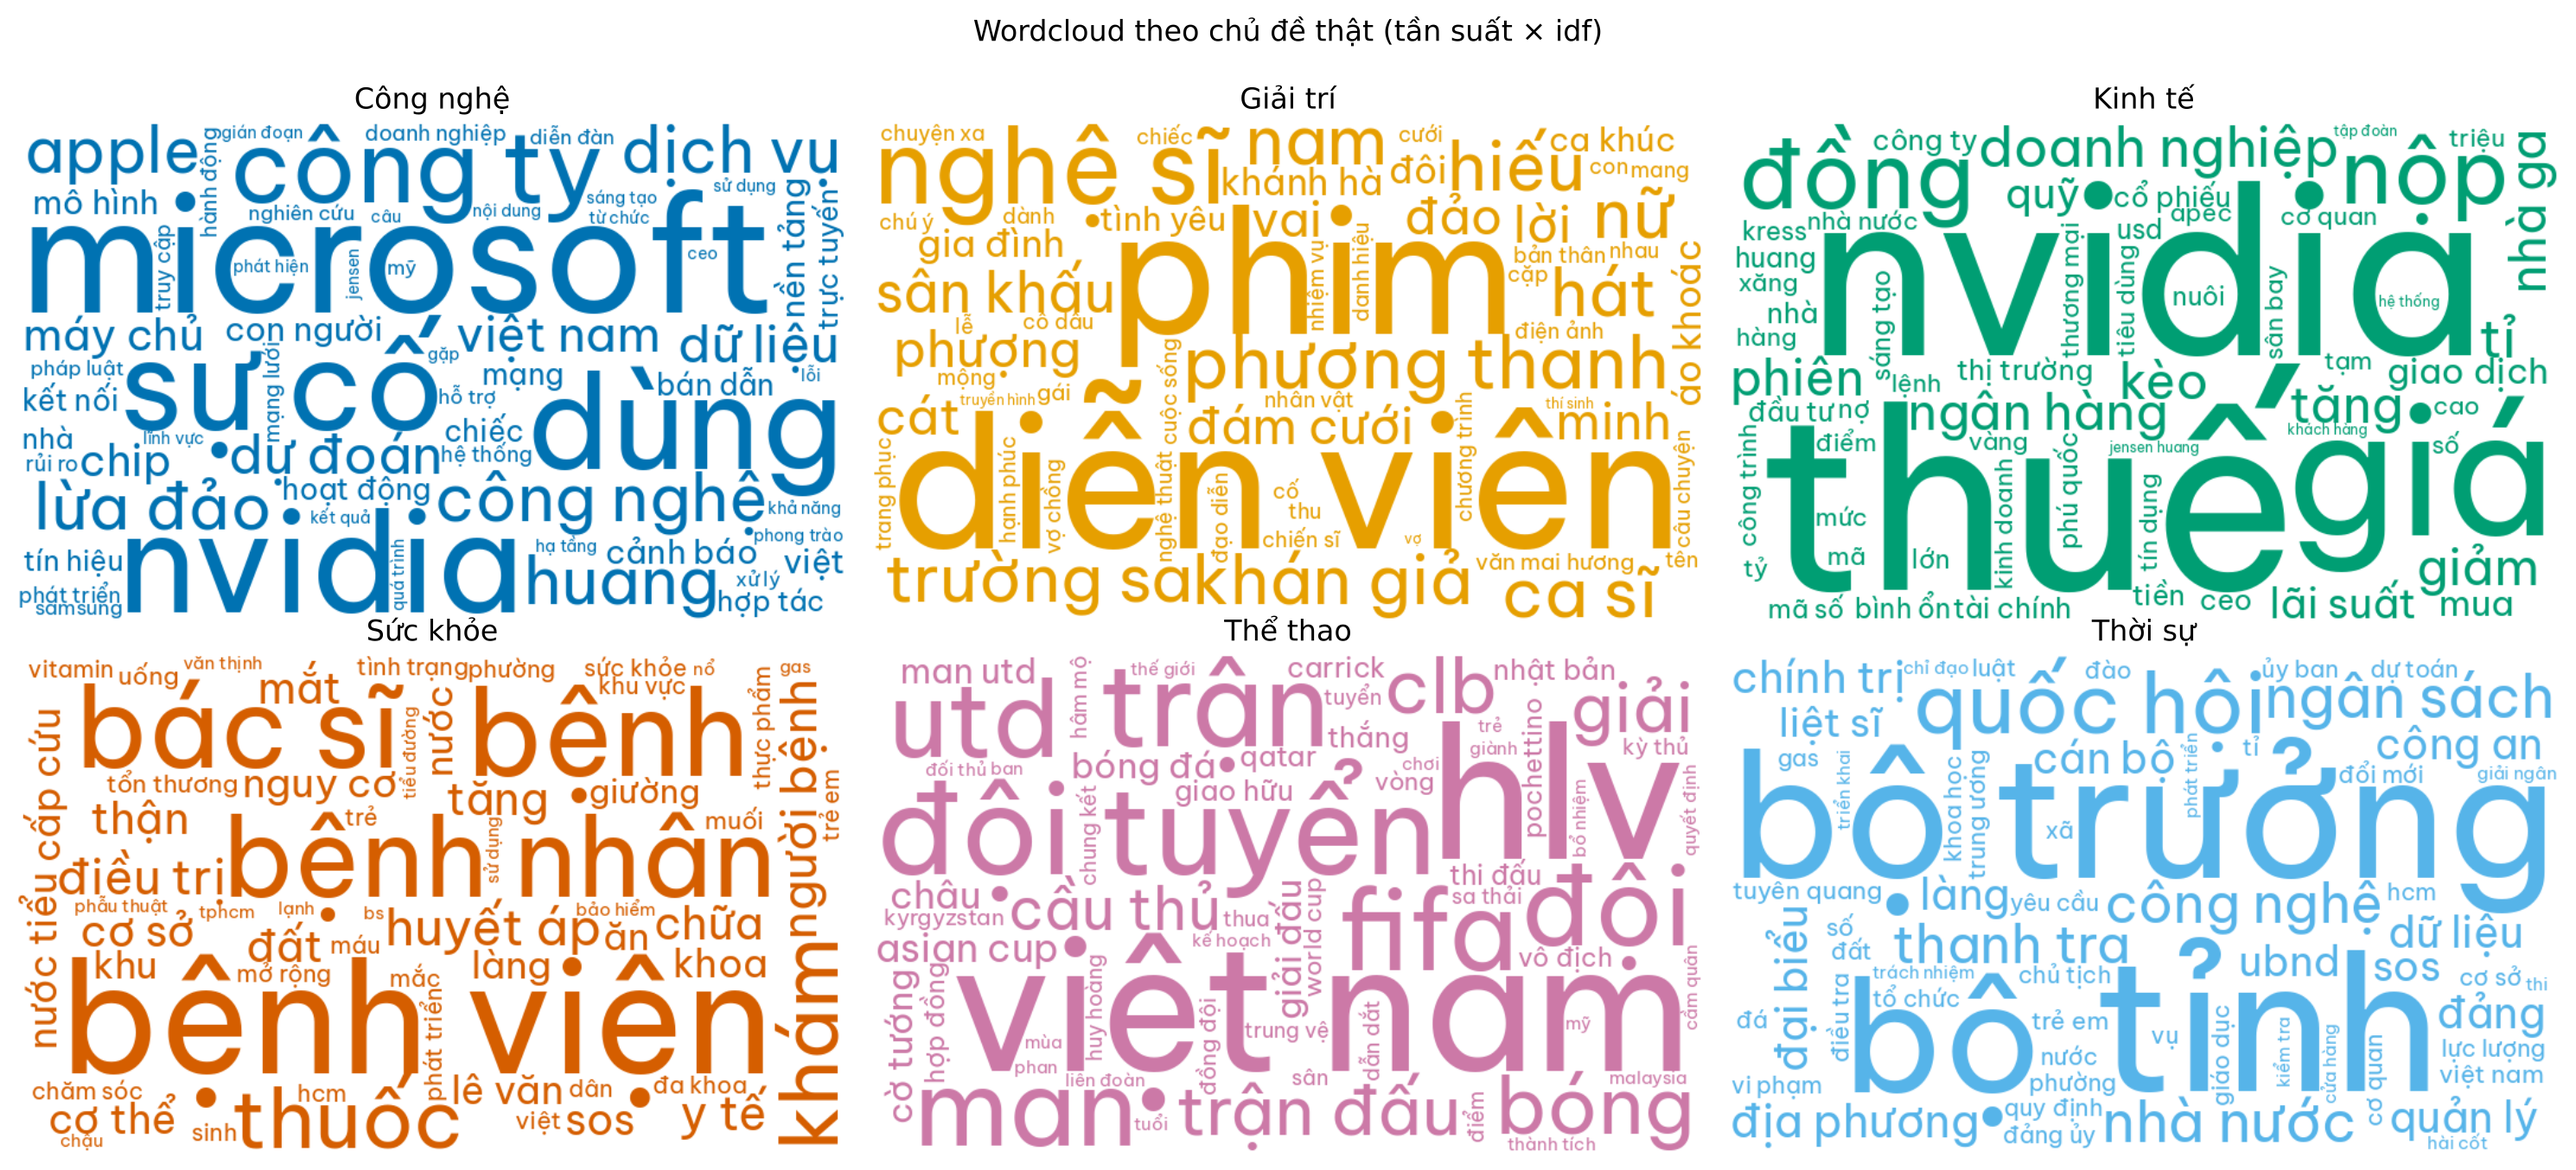
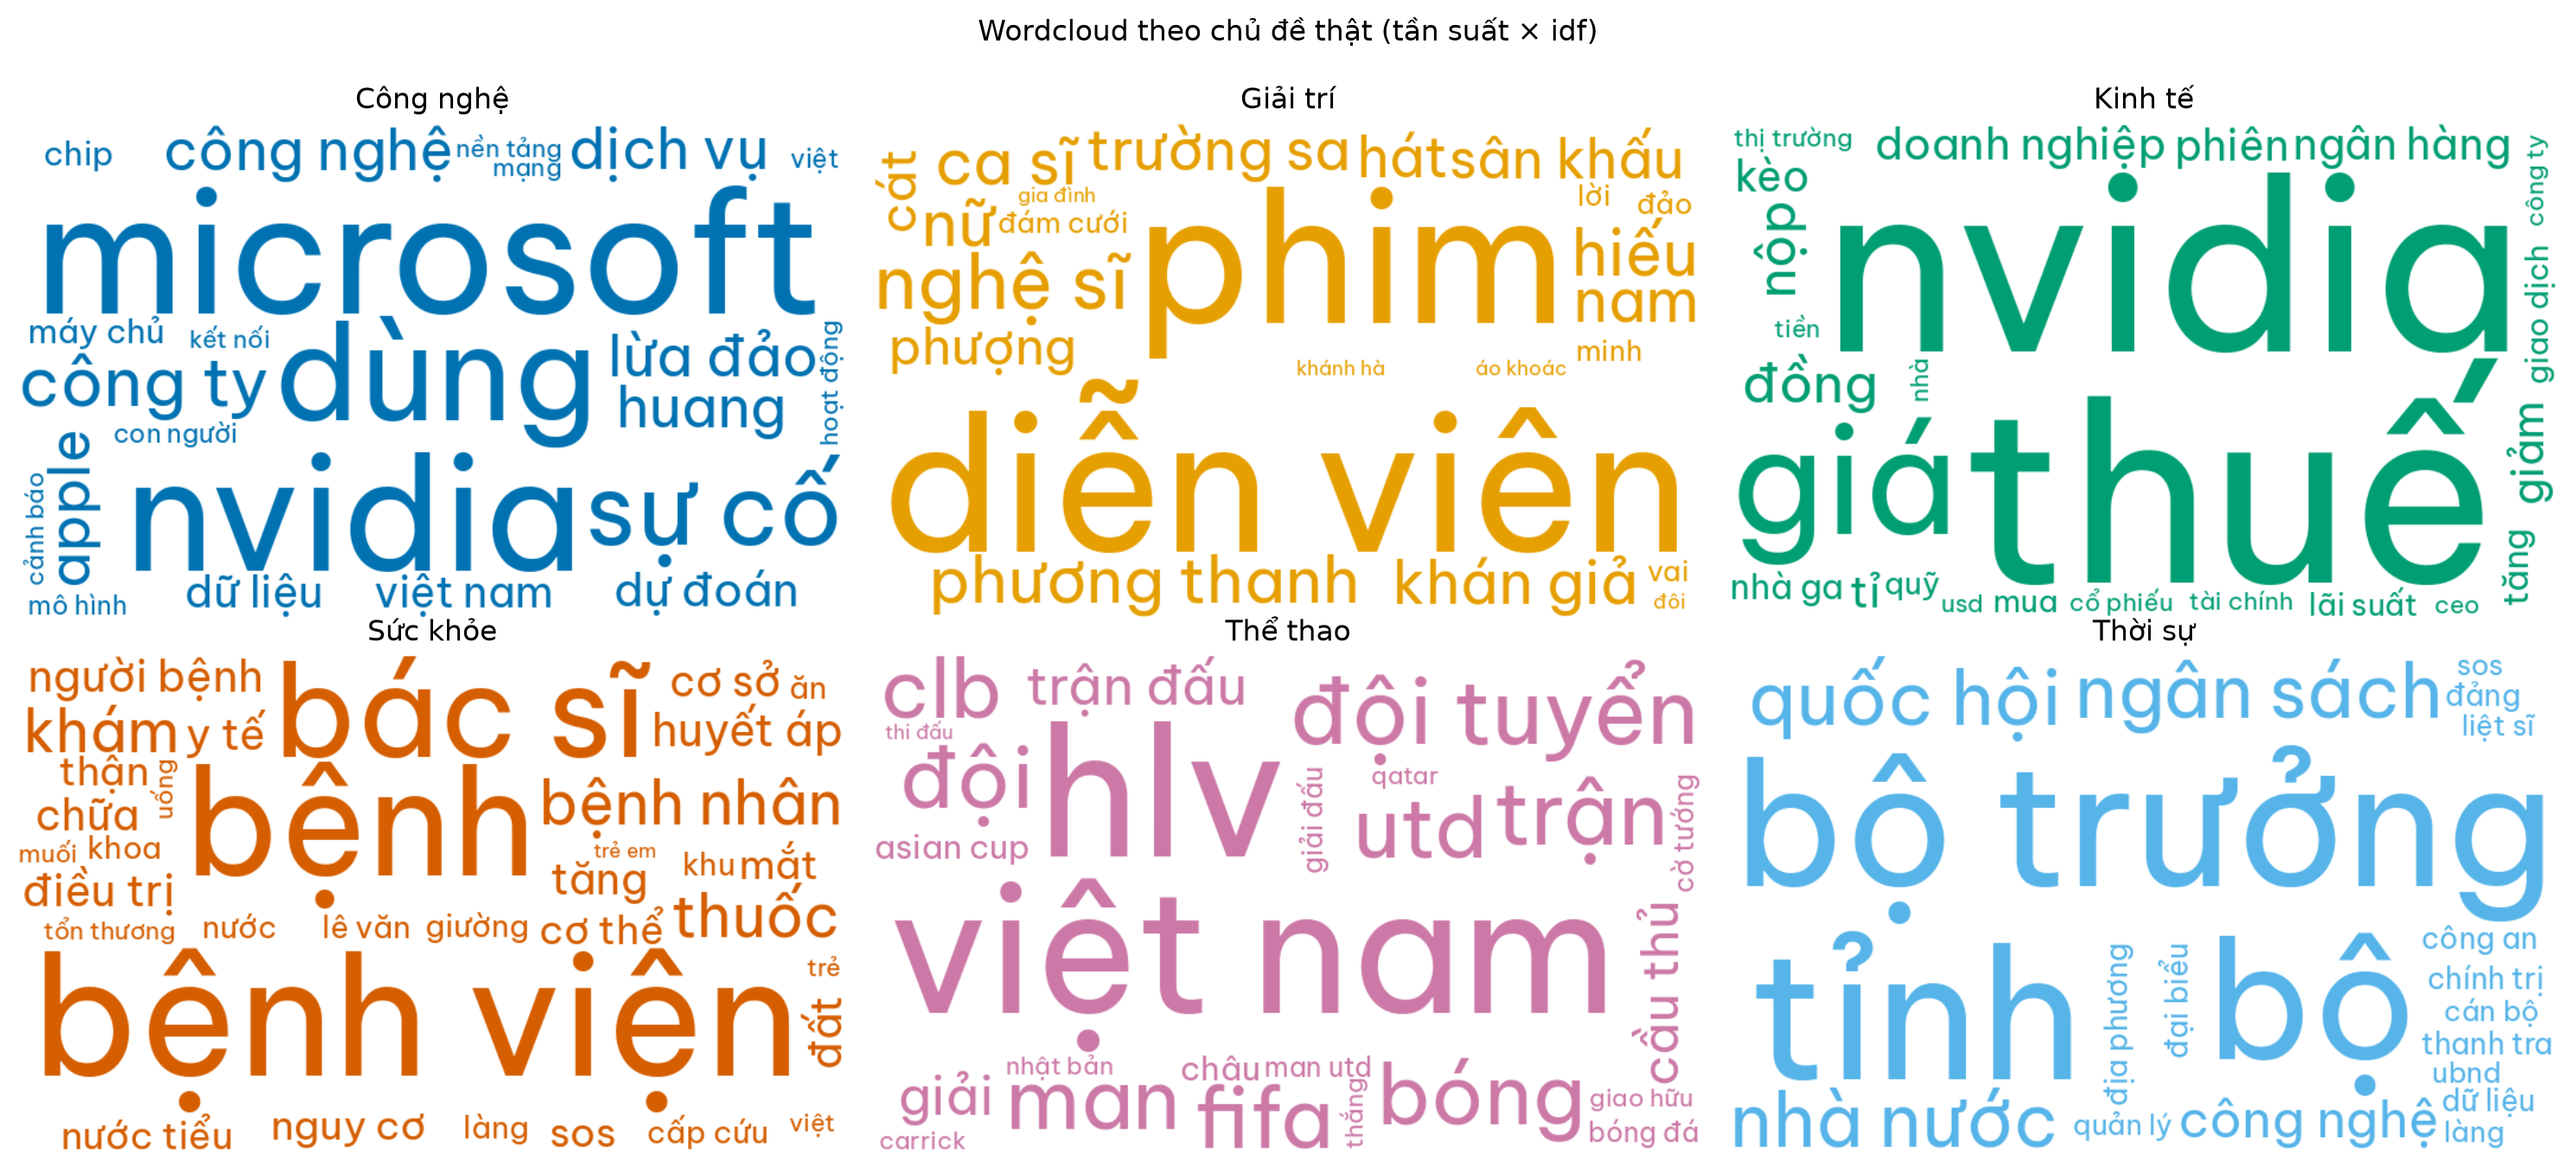
Sửa wordcloud: xếp chỗ theo khung chữ để không lệch dấu tiếng Việt, chỉnh mật độ chữ

diff --git a/src/visualization/plots.py b/src/visualization/plots.py
@@ -1,5 +1,6 @@
 """Biểu đồ EDA, scatter 2D (t-SNE/UMAP), wordcloud theo cụm, confusion matrix."""
 from collections import Counter
+from contextlib import contextmanager
 
 import matplotlib
 
@@ -9,6 +10,7 @@ import numpy as np
 import pandas as pd
 import seaborn as sns
 from matplotlib import font_manager
+from PIL import ImageDraw
 from sklearn.decomposition import TruncatedSVD
 from sklearn.manifold import TSNE
 
@@ -148,14 +150,48 @@ def _font_path():
     return font_manager.findfont(font_manager.FontProperties(family="DejaVu Sans"))
 
 
+class _BoxDraw(ImageDraw.ImageDraw):
+    """Khi wordcloud xếp chỗ (vẽ lên ảnh xám 'L'), tô kín cả khung chữ thay vì chỉ nét chữ.
+
+    Mặc định wordcloud chỉ coi điểm mực là đã chiếm chỗ, nên nhét từ nhỏ vào khe giữa chữ và
+    dấu tiếng Việt (vd. "vi phạm" nằm sát dấu nặng của "bộ" -> đọc thành "bô" + "vi phạm•").
+    Ảnh màu cuối cùng (mode RGB) vẫn vẽ chữ bình thường.
+    """
+
+    def text(self, xy, text, fill=None, font=None, *args, **kwargs):
+        if self.im.mode == "L":
+            self.rectangle(self.textbbox(xy, text, font=font), fill=fill)
+        else:
+            super().text(xy, text, fill, font, *args, **kwargs)
+
+
+@contextmanager
+def _box_layout():
+    """Tạm thay ImageDraw bên trong wordcloud bằng _BoxDraw (kiểm tra lại nếu nâng cấp wordcloud)."""
+    import wordcloud.wordcloud as wcmod
+
+    class _Shim:
+        Draw = staticmethod(lambda im, mode=None: _BoxDraw(im, mode))
+
+    orig, wcmod.ImageDraw = wcmod.ImageDraw, _Shim
+    try:
+        yield
+    finally:
+        wcmod.ImageDraw = orig
+
+
 def make_wordcloud(freqs: dict, color="#0072B2"):
     """Tạo 1 wordcloud từ dict {từ: tần suất}. Từ càng quan trọng thì chữ càng to."""
     from wordcloud import WordCloud
     freqs = {k.replace("_", " "): v for k, v in freqs.items()}  # hiển thị "bóng đá" thay vì "bóng_đá"
-    return WordCloud(width=700, height=420, background_color="white", font_path=_font_path(),
-                     max_words=60, prefer_horizontal=0.95, relative_scaling=0.5,
-                     color_func=lambda *a, **k: color, random_state=config.RANDOM_STATE
-                     ).generate_from_frequencies(freqs)
+    wc = WordCloud(width=700, height=420, background_color="white", font_path=_font_path(),
+                   # ít từ hơn + bỏ chữ quá nhỏ (min_font_size) + chênh lệch cỡ chữ vừa phải
+                   # (relative_scaling) để hình dày, chữ nào cũng đọc được
+                   max_words=35, min_font_size=16, margin=3, prefer_horizontal=0.95,
+                   relative_scaling=0.25,
+                   color_func=lambda *a, **k: color, random_state=config.RANDOM_STATE)
+    with _box_layout():
+        return wc.generate_from_frequencies(freqs)
 
 
 def group_frequencies(docs, labels, weights=None):
